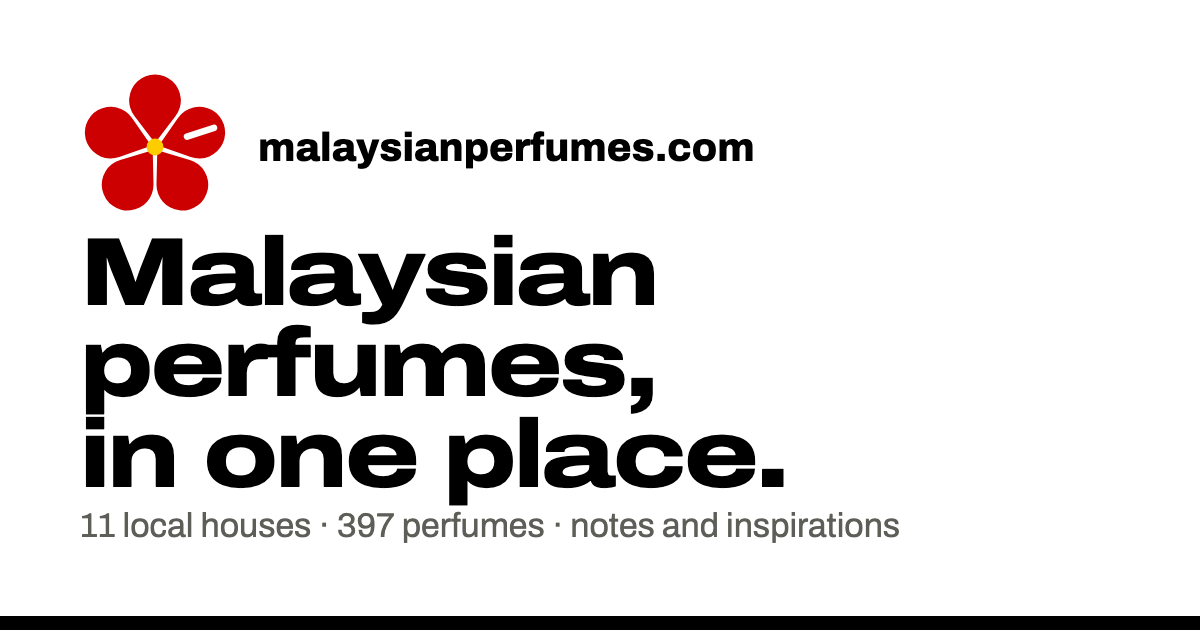
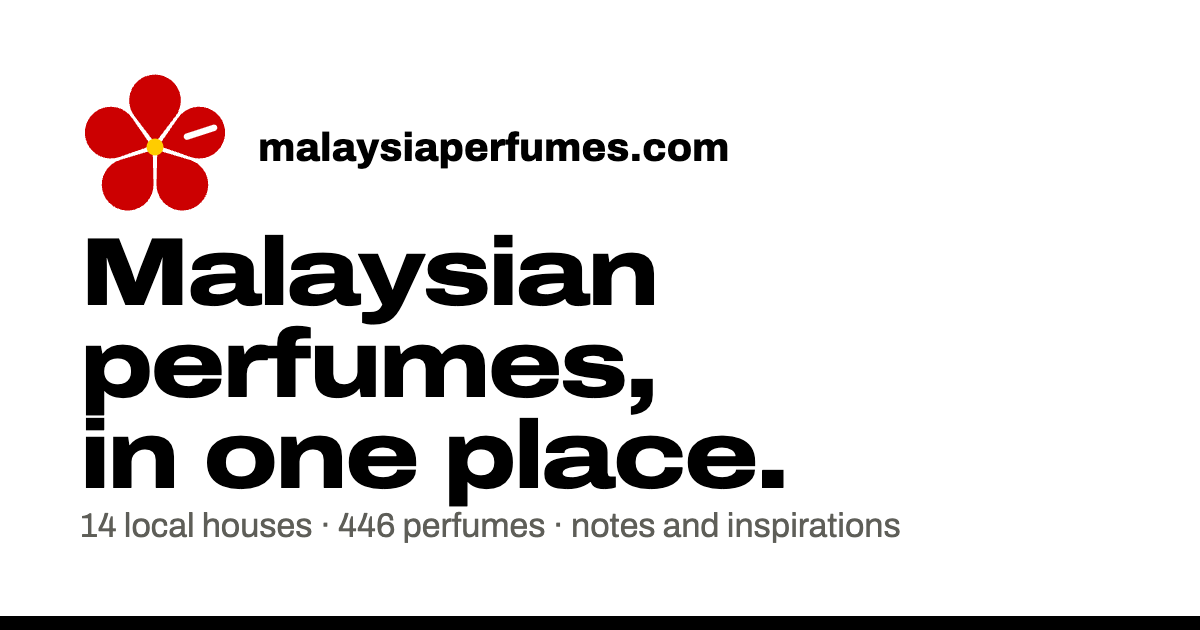
Rename site to Malaysia Perfumes and refresh the share image

diff --git a/worker/index.ts b/worker/index.ts
@@ -3,7 +3,7 @@
 
 import { validate } from './validate.ts';
 
-const FROM = { email: 'contact@malaysiaperfumes.com', name: 'Malaysian Perfumes' };
+const FROM = { email: 'contact@malaysiaperfumes.com', name: 'Malaysia Perfumes' };
 const json = (status: number, body: object) => Response.json(body, { status });
 
 async function human(token: string, ip: string | null, secret: string) {

diff --git a/src/lib/seo.ts b/src/lib/seo.ts
@@ -10,7 +10,7 @@ export const clip = (s: string, max = 160) => (s.length <= max ? s : s.slice(0, 
 export const websiteLd = () => ({
   '@context': 'https://schema.org',
   '@type': 'WebSite',
-  name: 'Malaysian Perfumes',
+  name: 'Malaysia Perfumes',
   url: abs('/'),
   inLanguage: 'en-MY',
   sameAs: [REPO_URL],

diff --git a/src/styles/global.css b/src/styles/global.css
@@ -1,4 +1,4 @@
-/* Malaysian Perfumes: plain library look. Black ink on white, one yellow accent, ruled lines. */
+/* Malaysia Perfumes: plain library look. Black ink on white, one yellow accent, ruled lines. */
 :root {
   --paper: #fff;
   --ink: #000;

diff --git a/README.md b/README.md
@@ -1,4 +1,4 @@
-# Malaysian Perfumes
+# Malaysia Perfumes
 
 A free library of perfumes made by Malaysian perfume houses: notes, inspirations and links, taken from each brand's own website.
 
